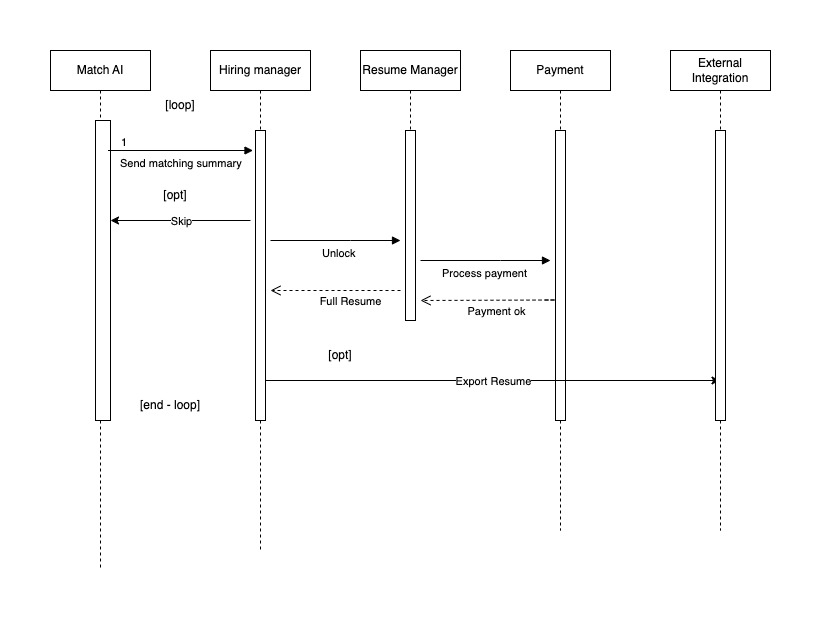
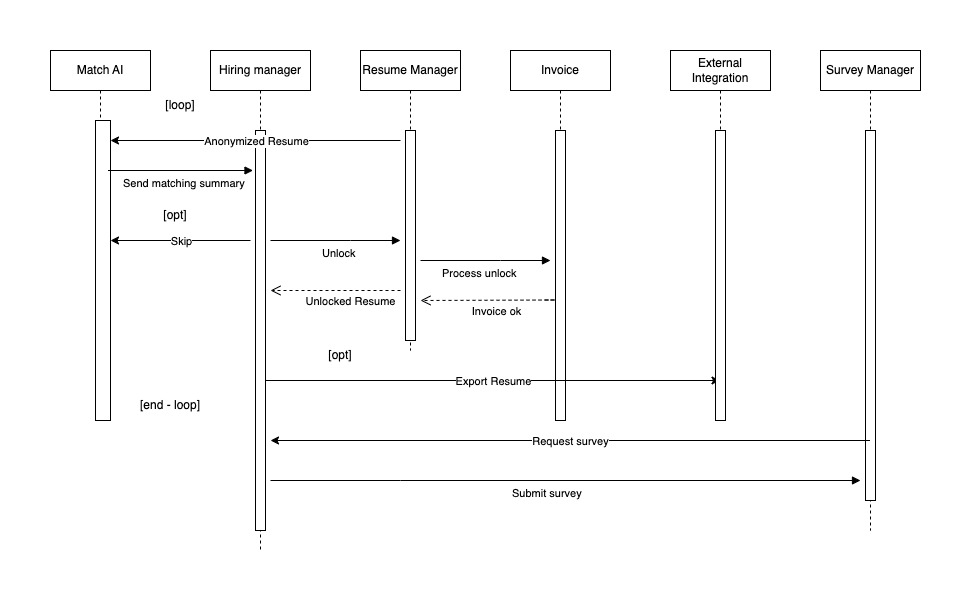
More updates

diff --git a/Usecases/US1-candidate-submission.md b/Usecases/US1-candidate-submission.md
@@ -22,6 +22,4 @@ The candidate can choose to either accept the suggestions or make their own edit
 
 The candidate can submit their resume to the Summary AI once they are satisfied with the final version.
 
-The Summary AI will generate an anonymized summary for the resume and send it back to the Resume manager.
-
-The Resume manager will notify the user that an anonymized summary of their resumer is ready to be viewed.
+The Summary AI will generate an anonymized resume for the resume and send it back to the Resume manager.

diff --git a/Usecases/US3-hiringmanager-match.md b/Usecases/US3-hiringmanager-match.md
@@ -21,3 +21,5 @@ Upon receiving the notification, the hiring manager reviews the anonymized resum
 If they choose to unlock the resume, a payment is made, granting access to the candidate's complete resume.
 
 Should the hiring manager wish to proceed with an interview, they can export the resume to their external HR systems.
+
+The hiring manager is presented with a survey which will allow us to improve the system.
